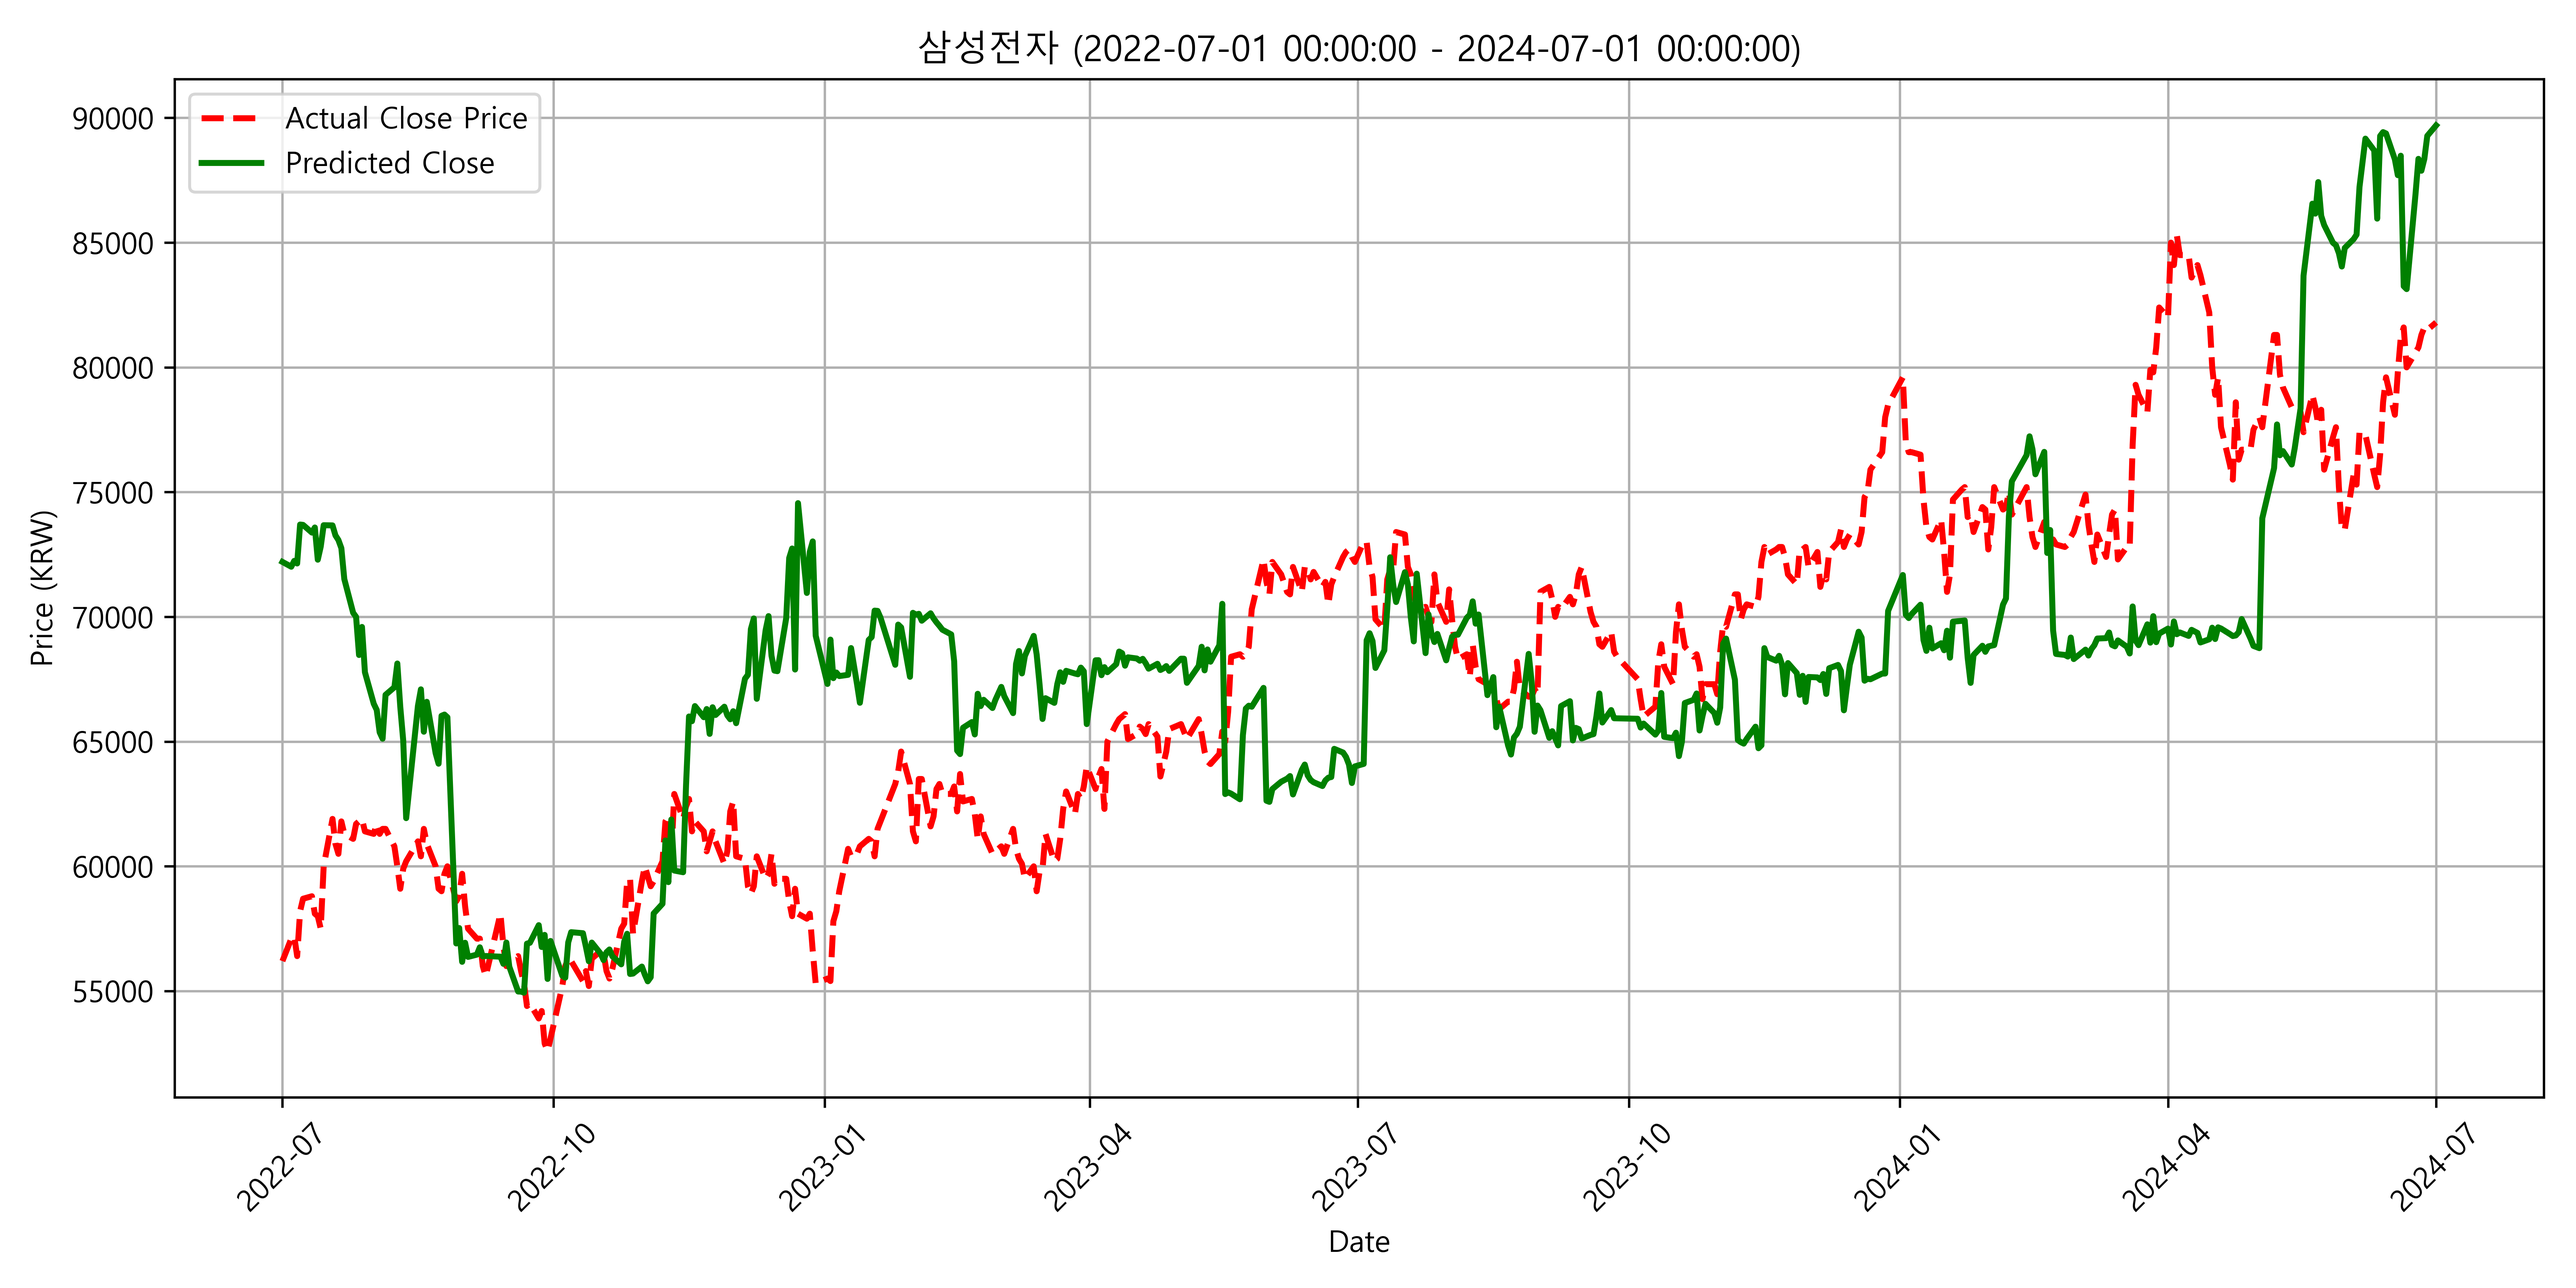
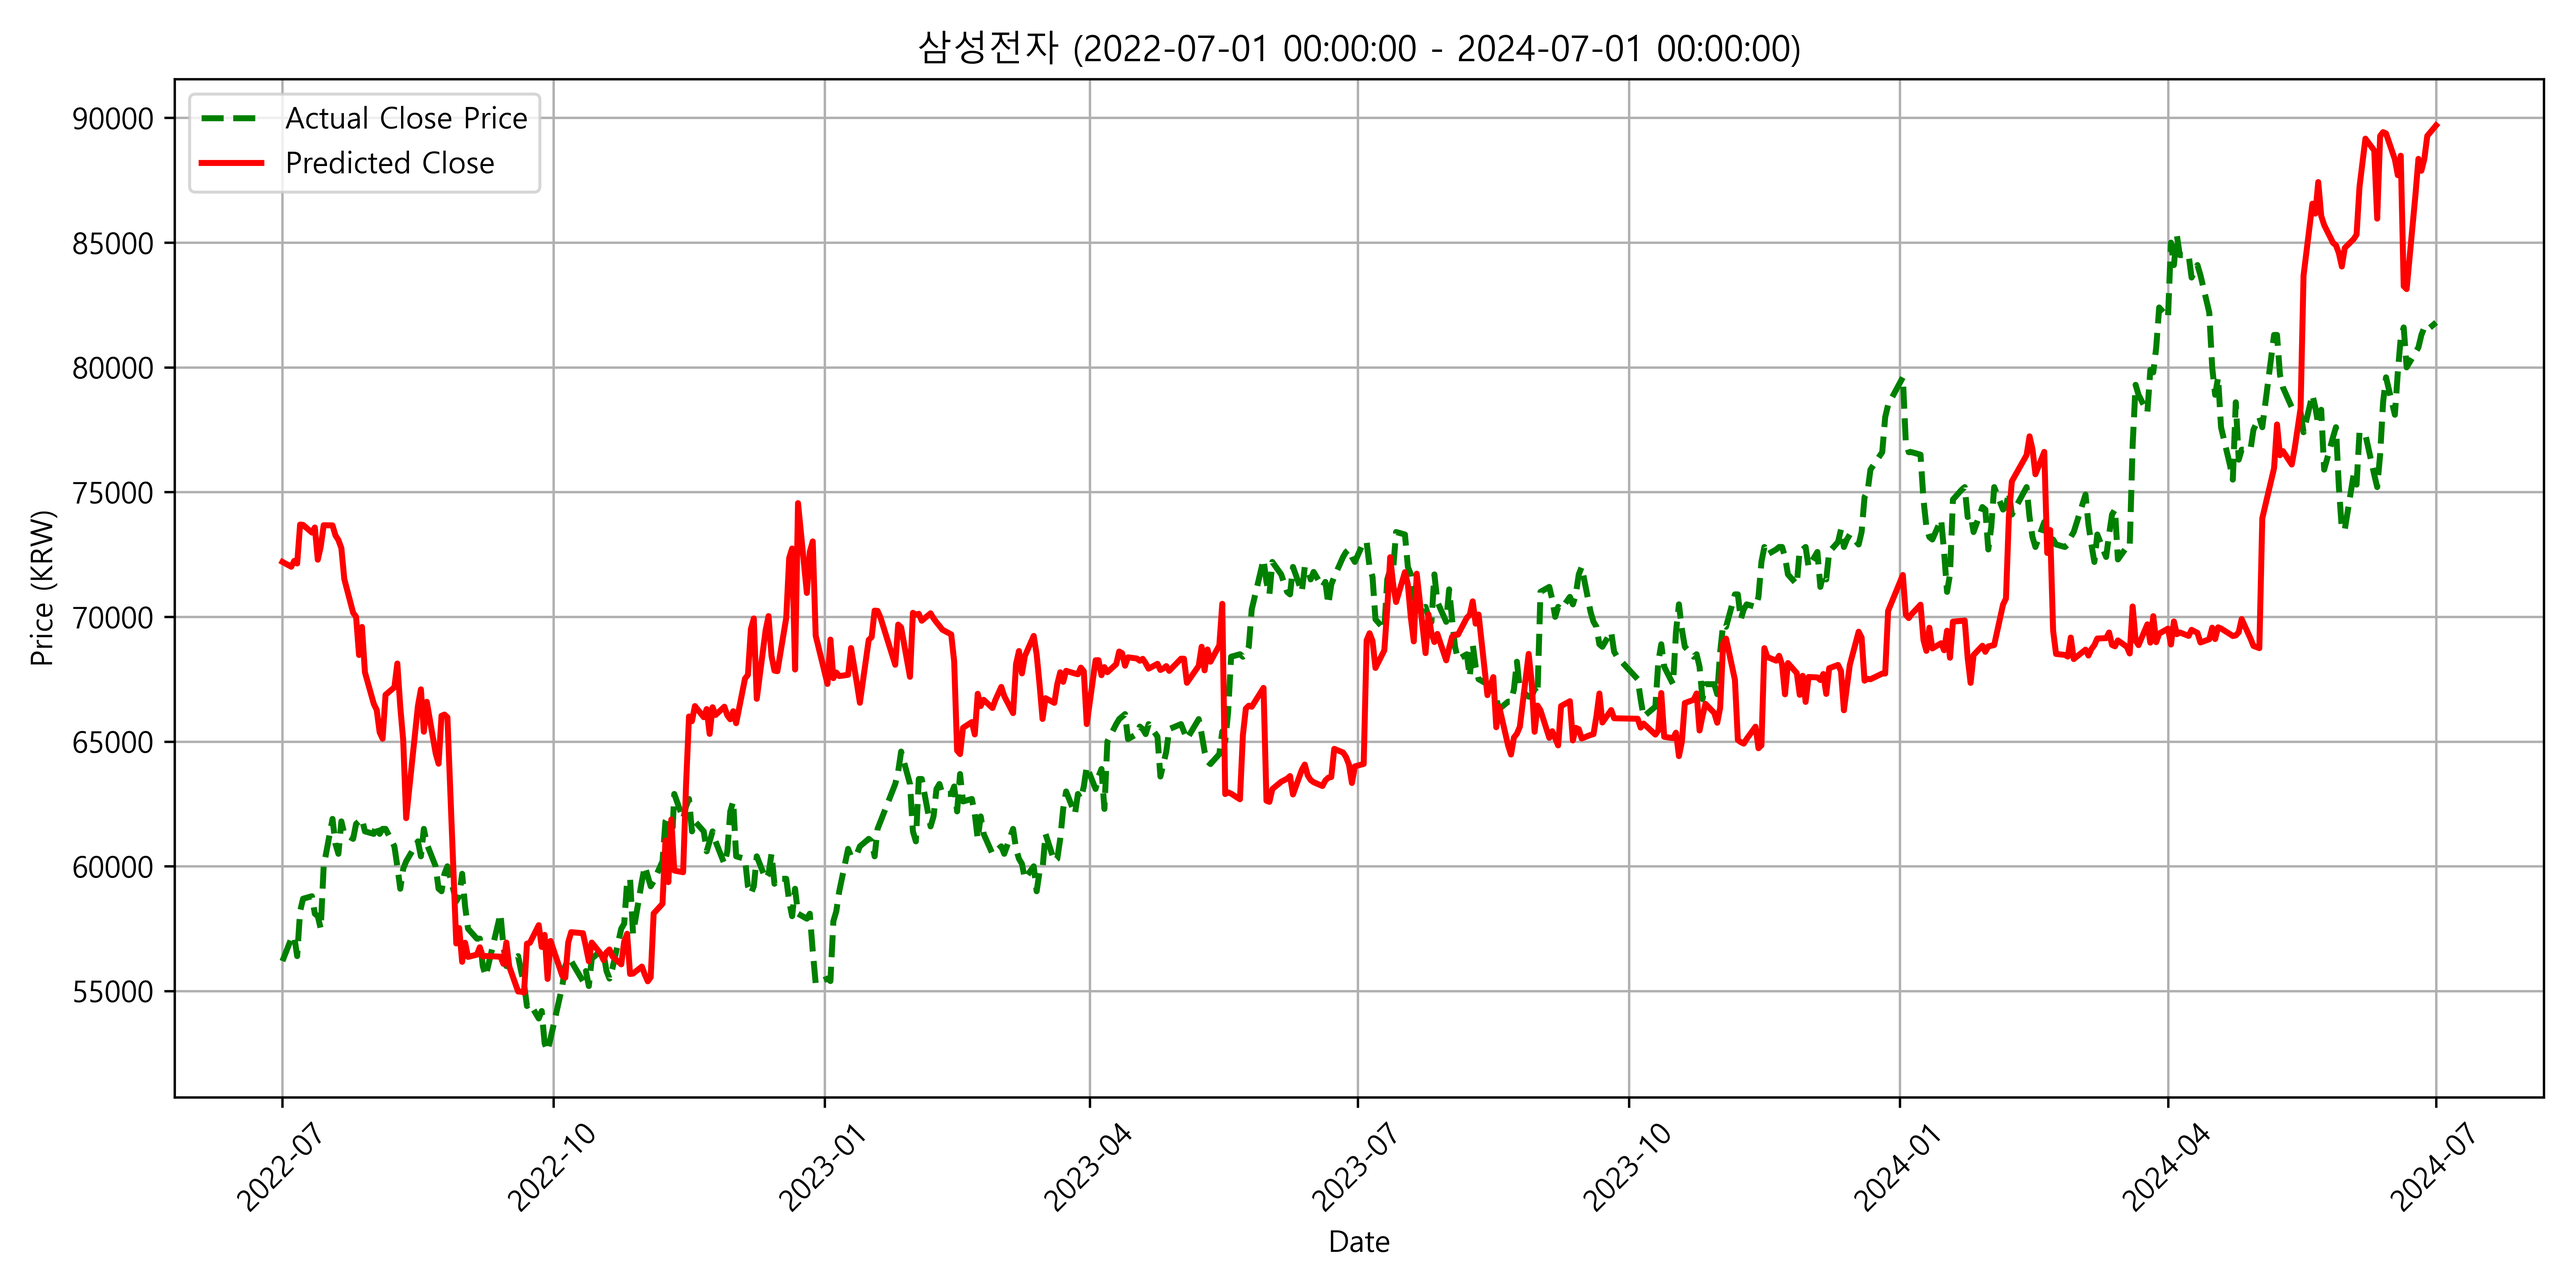
modify graph design

diff --git a/stock_chart.py b/stock_chart.py
@@ -128,10 +128,10 @@ def plotLineChart(df, stockname, sdate, edate, outputfile = './result/StockChart
     plt.figure(figsize=(12, 6))
 
     # 실제 종가
-    plt.plot(output_actual_df.index, output_actual_df['Close'], label='Actual Close Price', color='r', linewidth=2, linestyle='--')
+    plt.plot(output_actual_df.index, output_actual_df['Close'], label='Actual Close Price', color='g', linewidth=2, linestyle='--')
 
     # 예측 종가
-    plt.plot(predict_df.index, predict_df['Predicted_Close'], label='Predicted Close', color='g', linewidth=2)
+    plt.plot(predict_df.index, predict_df['Predicted_Close'], label='Predicted Close', color='r', linewidth=2)
 
     plt.title(label_title + f" ({sdate} - {edate})")
     plt.xlabel('Date')

diff --git a/mainWindow.py b/mainWindow.py
@@ -428,7 +428,7 @@ class WindowClass(QMainWindow, form_class):
             self.Widget3.close()
 
         self.Widget3 = QWidget()
-        self.Widget3.resize(400, 300)
+        self.Widget3.resize(600, 500)
         self.Widget3.setMinimumSize(100, 100)
 
         shap_pixmap = QPixmap(self.Widget3_image)
